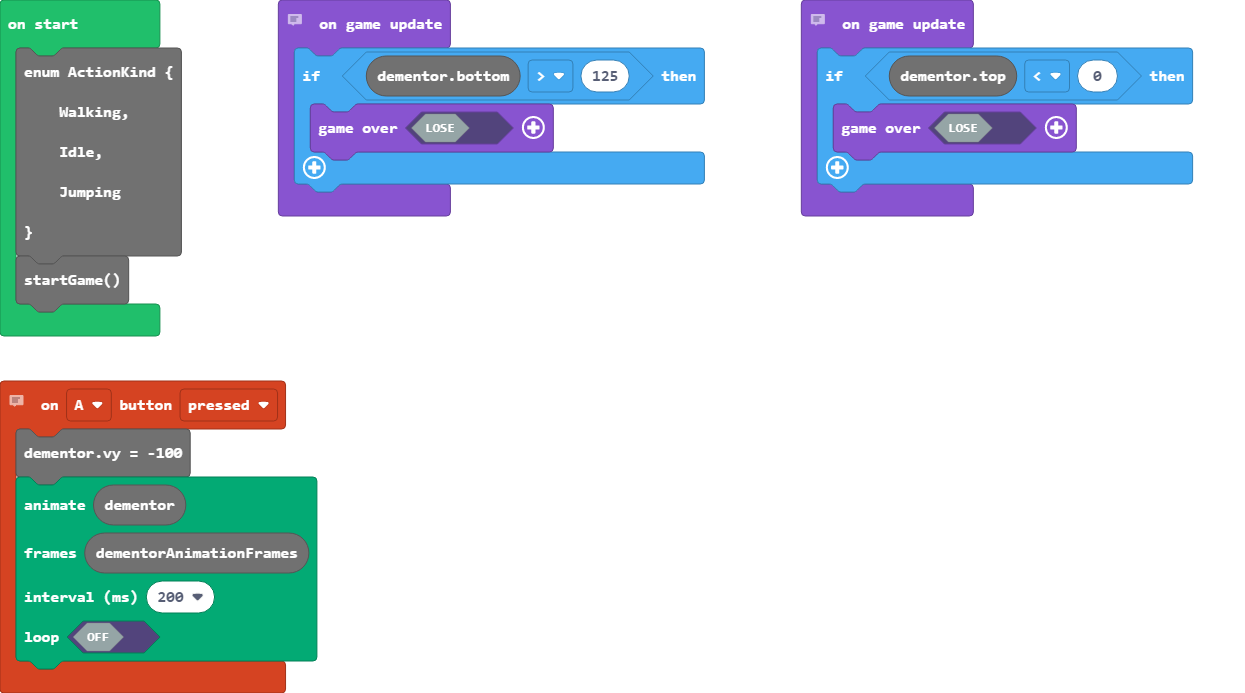
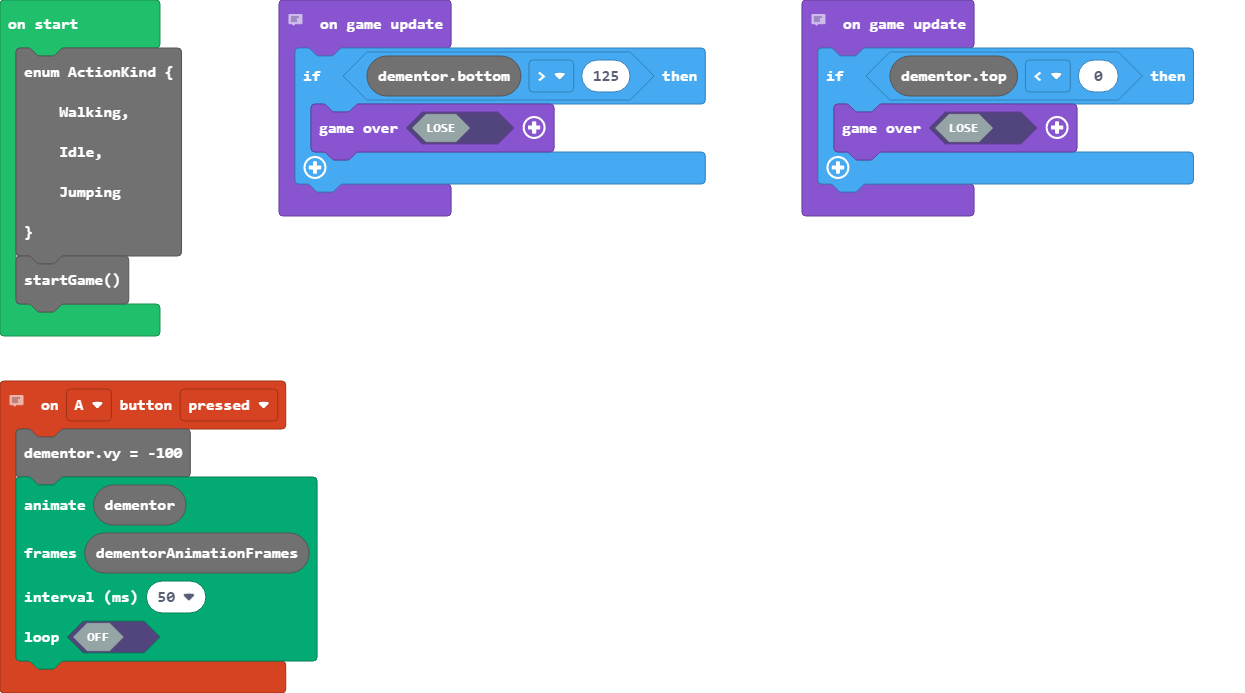
Update pxt.json, main.blocks, main.ts, init.ts

diff --git a/main.ts b/main.ts
@@ -1,13 +1,27 @@
 namespace SpriteKind {
     export const Gap = SpriteKind.create()
+     export const Glub_Glub = SpriteKind.create()
 }
+
+sprites.onOverlap(SpriteKind.Player, SpriteKind.Gap, function(sprite: Sprite, otherSprite: Sprite) {
+info.changeScoreBy(1)
+ dementor.startEffect(effects.ashes, 350)
+ otherSprite.setFlag (SpriteFlag.Ghost, true)
+})
+    info.setLife(10000000)
+sprites.onOverlap(SpriteKind.Player, SpriteKind.Glub_Glub, function(sprite: Sprite, otherSprite: Sprite) {
+info.changeScoreBy(-1)
+info.changeLifeBy(-1)
+dementor.startEffect(effects.fire, 250)
+otherSprite.setFlag (SpriteFlag.Ghost, true)
+})
 // Jump on A button
 controller.A.onEvent(ControllerButtonEvent.Pressed, function () {
     dementor.vy = -100
 animation.runImageAnimation(
     dementor,
     dementorAnimationFrames,
-    200,
+    50,
     false
     )
 })

diff --git a/init.ts b/init.ts
@@ -440,6 +440,15 @@ game.onUpdateInterval(1500, function() {
     let bottomImg = obstacleBottomImgs [gapNumber]
     let gapImage = image.create(1, scene.screenHeight())
     gapImage.fill(1)
-let gapsprite = sprites.create(gapImage, SpriteKind. Gap)
- gapsprite.vx = -45
+let gapSprite = sprites.create(gapImage, SpriteKind. Gap)
+ gapSprite.vx = -45
+ gapSprite.x = 200
+let obstacleTopSprite = sprites.create(topImg, SpriteKind. Glub_Glub)
+obstacleTopSprite.vx = -45
+ obstacleTopSprite.x = 200
+obstacleTopSprite.top = 0
+let obstacleBottomSprite = sprites.create(bottomImg, SpriteKind.Glub_Glub)
+obstacleBottomSprite.vx = -45
+ obstacleBottomSprite.x = 200
+obstacleBottomSprite.bottom = scene.screenHeight()
 })
